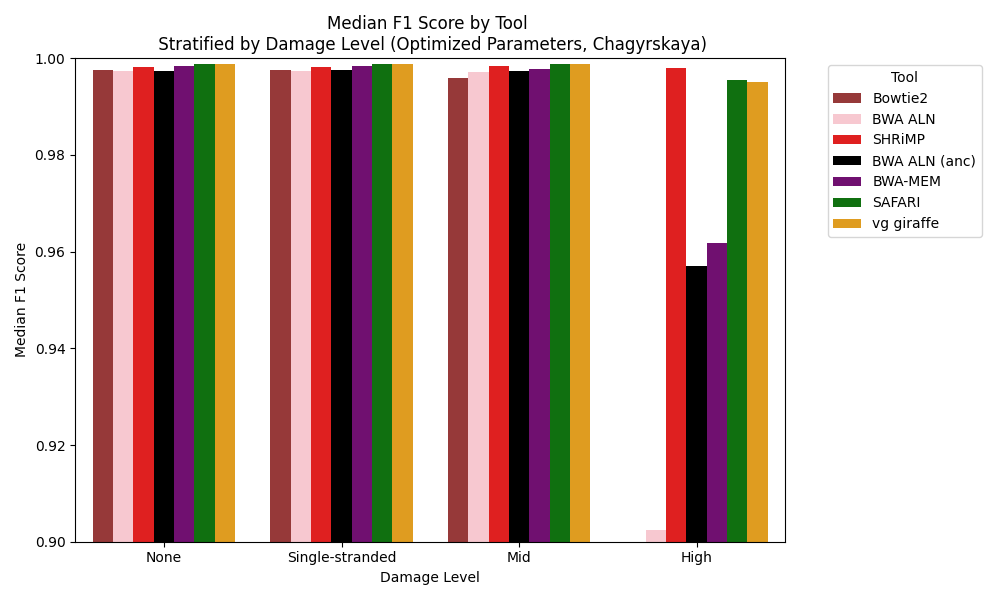
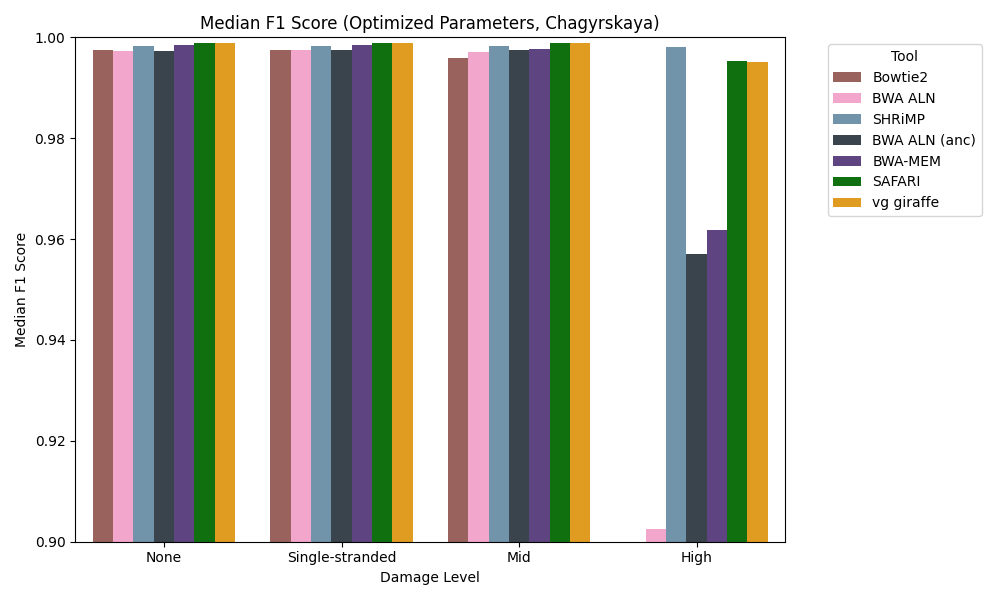
Update

diff --git a/linear_experiment/human_mito/stat_results/plot_F1_optimized_all.py b/linear_experiment/human_mito/stat_results/plot_F1_optimized_all.py
@@ -35,14 +35,21 @@ def main():
 
     print(median_f1_scores)
 
-    # Correcting the case sensitivity issue for the palette
-    corrected_palette = {'vg giraffe': 'orange', 'SAFARI': 'green', 'BBMAP': 'blue', 'SHRiMP': 'red', 'BWA-MEM':'purple', \
-                         'BWA ALN': 'pink', 'BWA ALN (anc)':'black', 'Bowtie2': 'brown'}
+    corrected_palette = {
+    'vg giraffe': 'orange', 
+    'SAFARI': 'green', 
+    'BBMAP': '#1f7872',  # Teal
+    'SHRiMP': '#6996b3',  # Light Blue
+    'BWA-MEM': '#5e3a8c',  # Deep Violet
+    'BWA ALN': '#ff99cc',  # Soft Magenta
+    'BWA ALN (anc)': '#36454f',  # Charcoal Grey
+    'Bowtie2': '#a45a52'  # Rust
+                         }
 
     # Create a barplot
     plt.figure(figsize=(10, 6))
     sns.barplot(data=median_f1_scores, x='damage_level', y='f1', hue='tool', palette=corrected_palette)
-    plt.title('Median F1 Score by Tool \n Stratified by Damage Level (Optimized Parameters, ' + sys.argv[3] + ")")
+    plt.title('Median F1 Score (Optimized Parameters, ' + sys.argv[3] + ")")
     plt.xlabel('Damage Level')
     plt.ylabel('Median F1 Score')
     plt.legend(title='Tool', bbox_to_anchor=(1.05, 1), loc='upper left')

diff --git a/linear_experiment/human_mito/stat_results/RMSE_all.py b/linear_experiment/human_mito/stat_results/RMSE_all.py
@@ -50,10 +50,11 @@ def plot_rmse_by_damage_level(input_file_path):
         axes[i].set_title(site)
         axes[i].set_ylabel('Median RMSE')
 
-    axes[-1].set_xlabel('Damage Level')
+    axes[0].set_xlabel('')
+    axes[1].set_xlabel('Damage Level')
 
     plt.tight_layout()
-    plt.savefig("RMSE_all_tools_comparison.png")
+    plt.savefig("RMSE_all_tools_comparison2.png")
 
     # Modify the legend to not use bold font
     for ax in axes:
